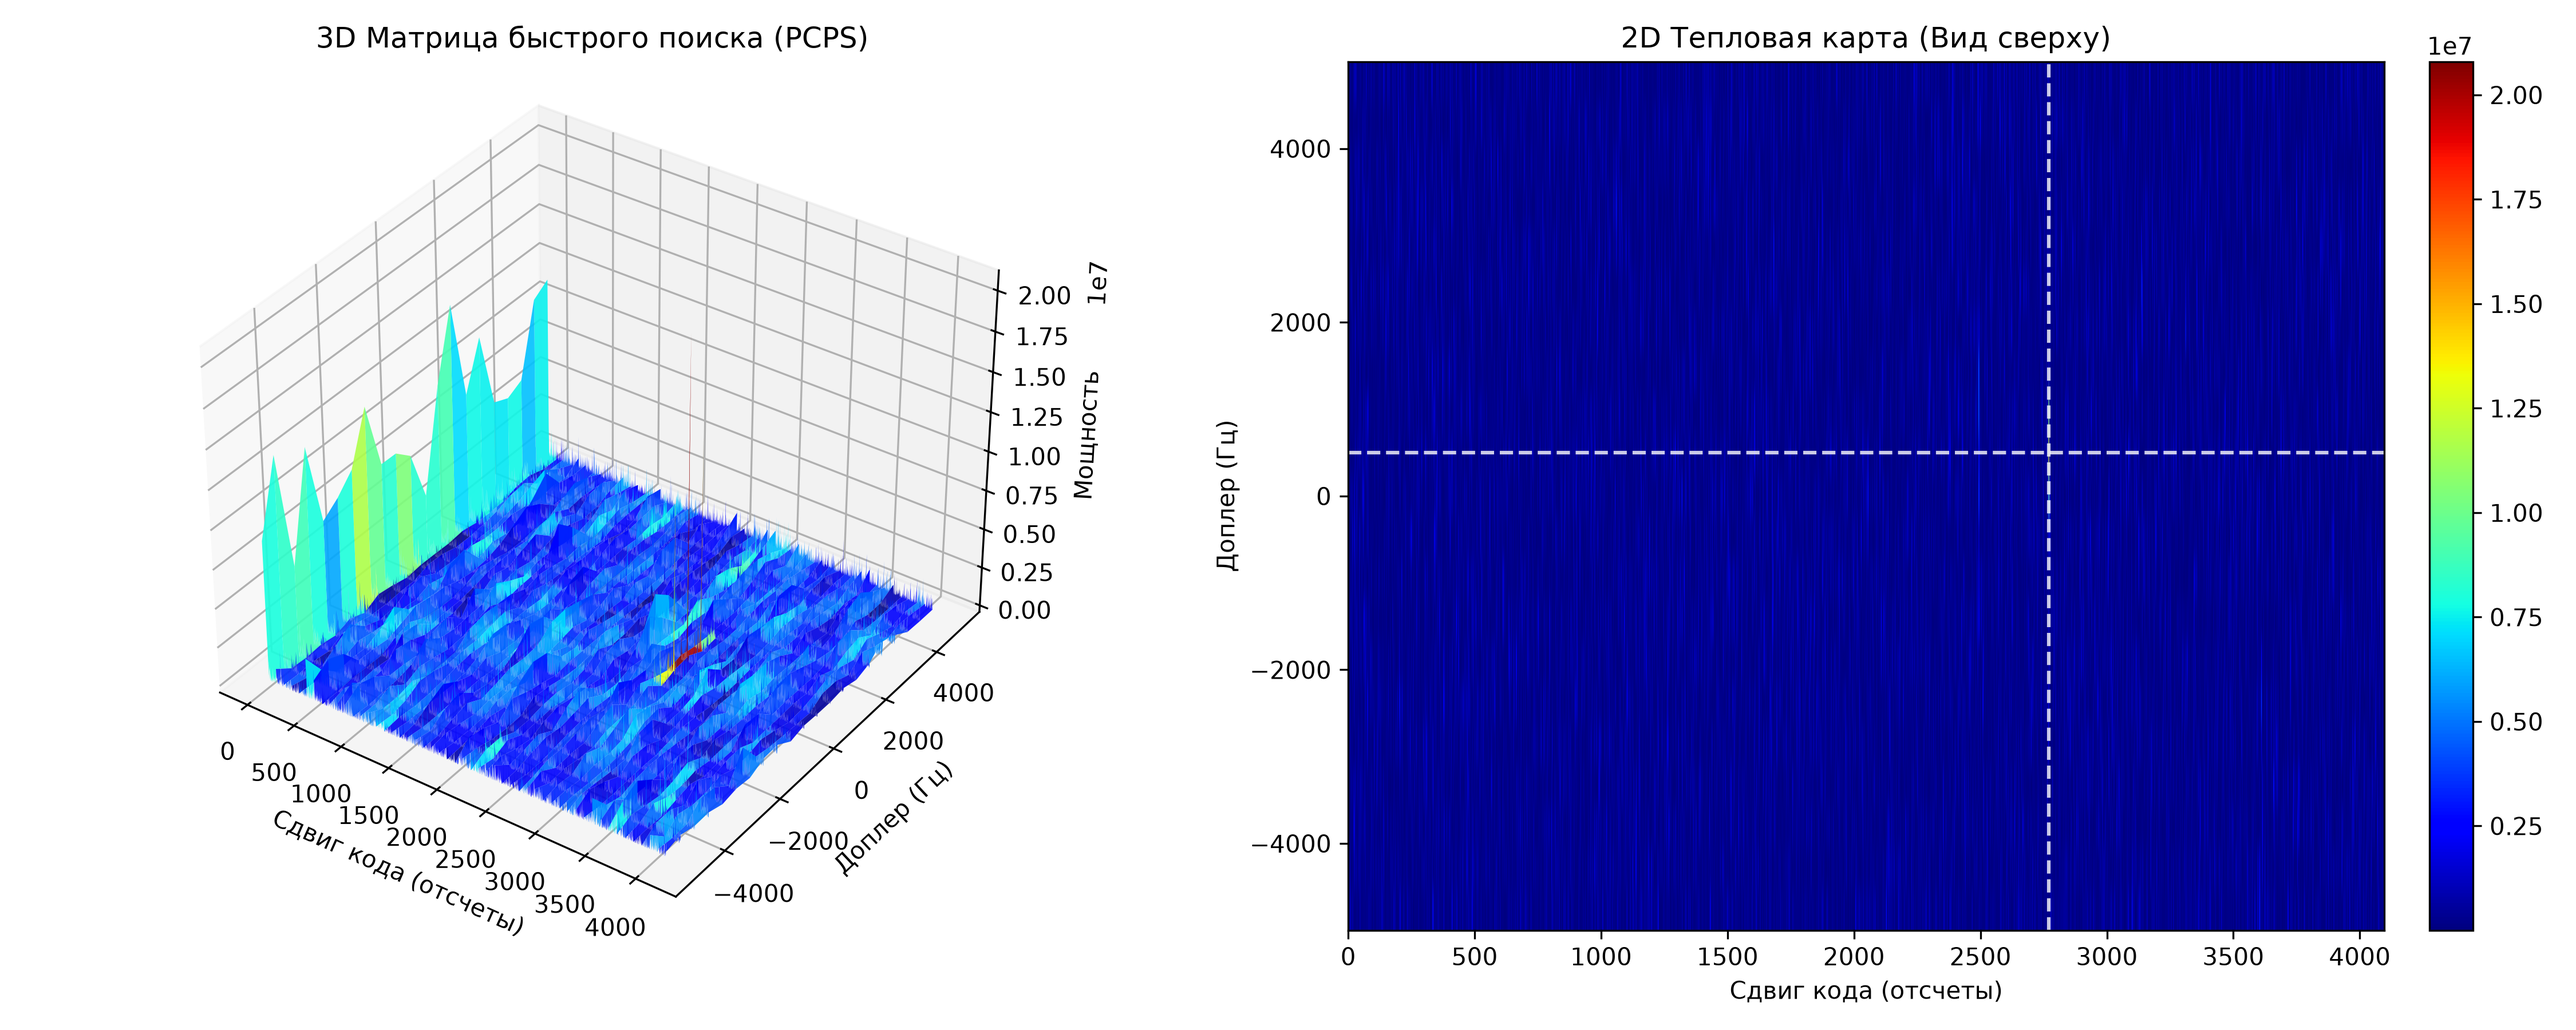
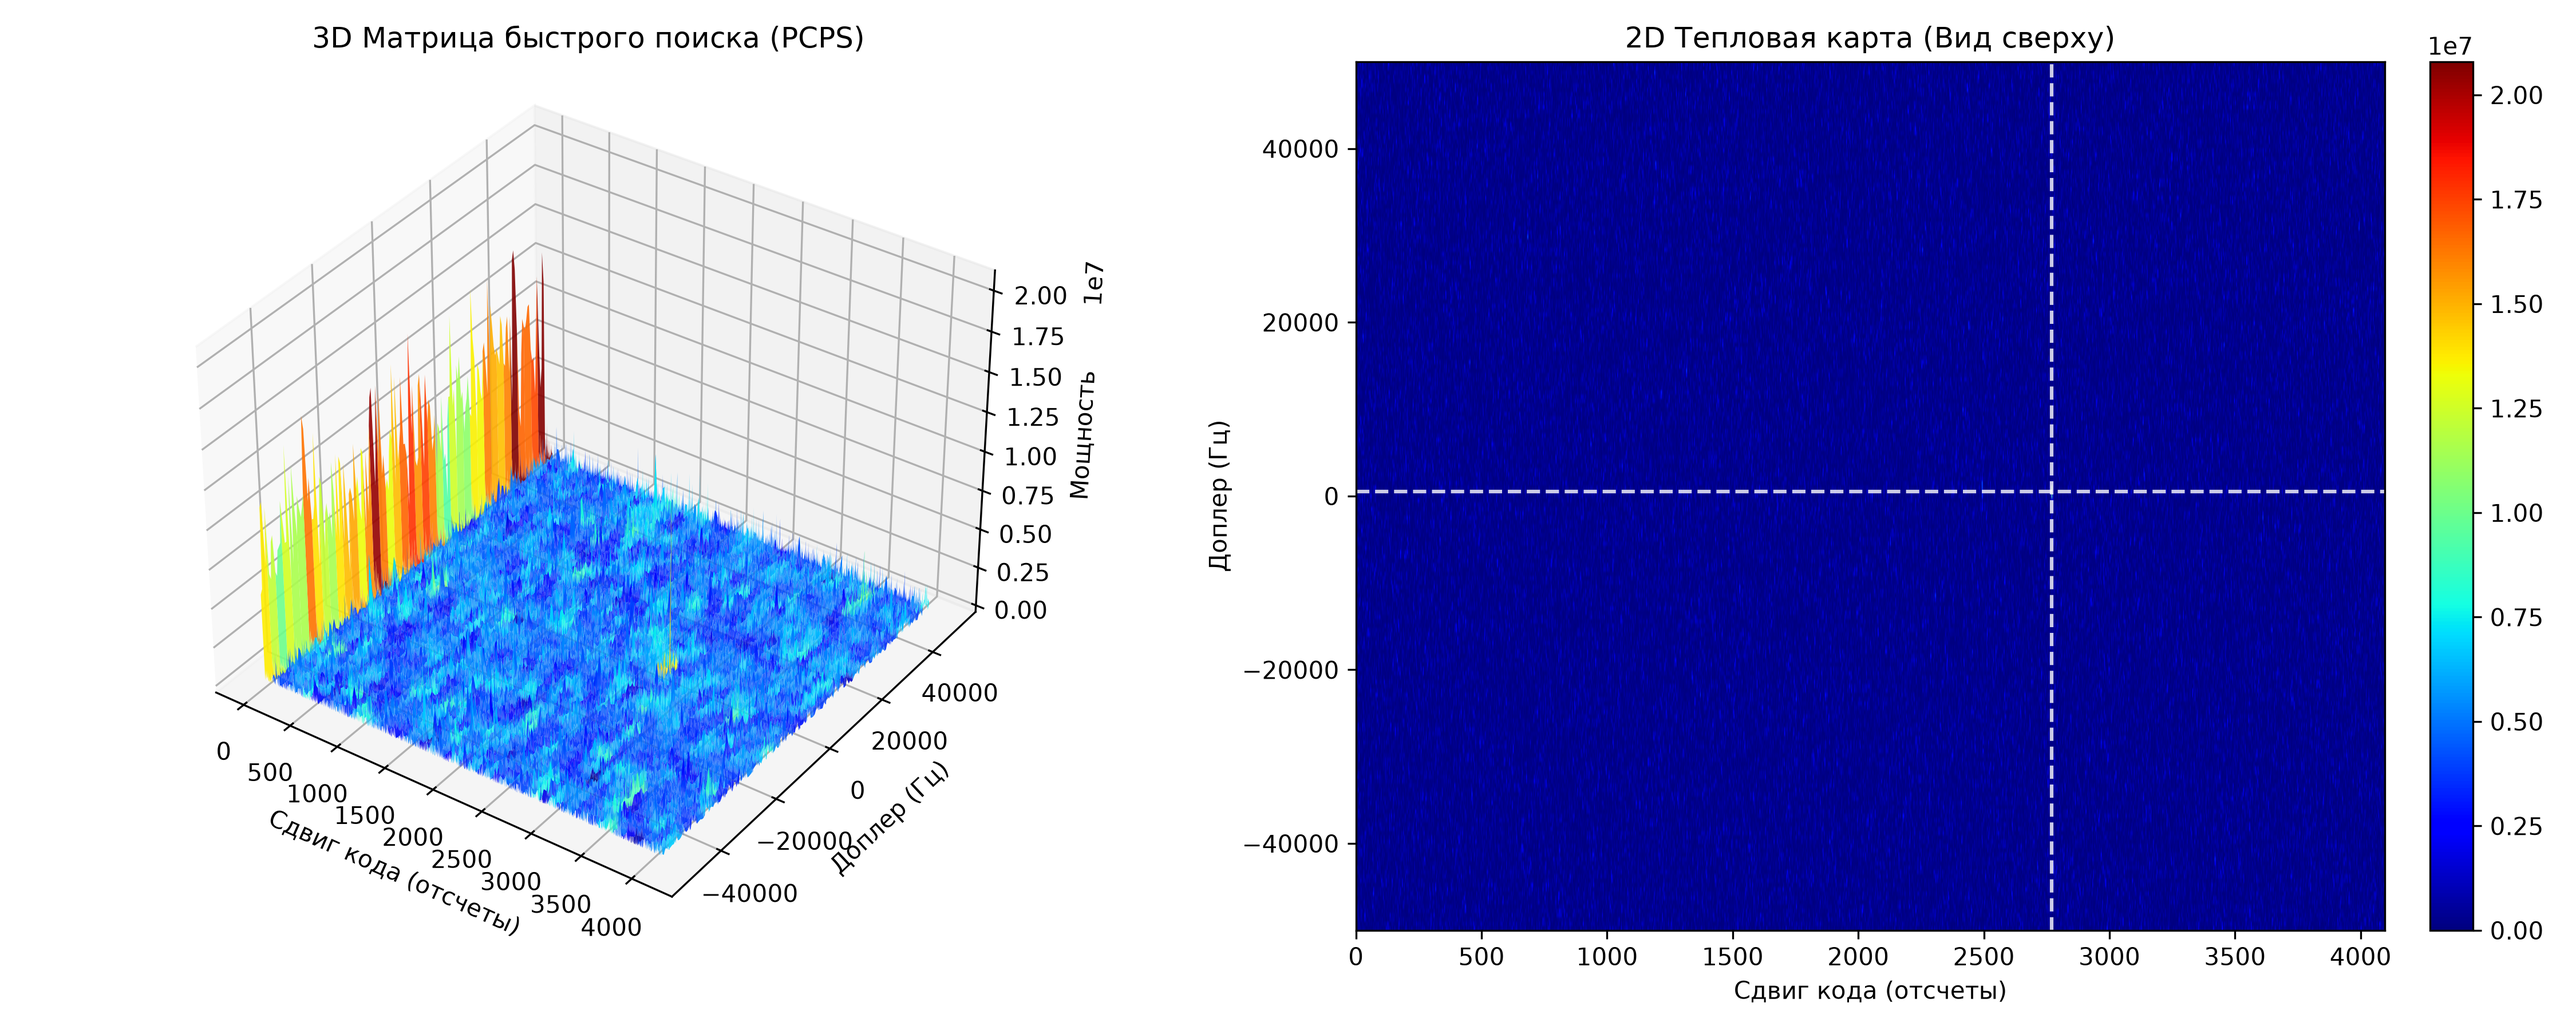
New arrange for doppler

Changed region(s): [[0.4667, 0.0311, 0.9333, 0.9956], [0.0933, 0.1244, 0.4356, 0.9022], [0.1244, 0.0311, 0.3422, 0.0622]]

diff --git a/sim/tb_coarse.cpp b/sim/tb_coarse.cpp
@@ -167,14 +167,14 @@ int main(int argc, char **argv) {
   fft_im.reserve(4096);
   mix_re.reserve(4096);
   mix_im.reserve(4096);
-  power_2d.reserve(21 * 4096);
+  power_2d.reserve(201 * 4096);
 
   std::vector<int> dopplers;
-  for (int d = -5000; d <= 5000; d += 500) {
+  for (int d = -50000; d <= 50000; d += 500) {
     dopplers.push_back(d);
   }
 
-  std::cout << "Starting 2D Doppler Search: -5 kHz to +5 kHz..." << std::endl;
+  std::cout << "Starting 2D Doppler Search: -50 kHz to +50 kHz..." << std::endl;
 
   bool global_signal_found = false;
   int best_doppler = 0;

diff --git a/sim/run_pipeline.py b/sim/run_pipeline.py
@@ -51,10 +51,10 @@ def main():
     power_1d = np.fromfile(pow_path, dtype=np.uint64)
     FRAME_SIZE = 4096
 
-    dopplers = np.arange(-5000, 5001, 500)
+    dopplers = np.arange(-50000, 50001, 500)
     num_doppler = len(dopplers)
 
-    # Формируем 2D матрицу (21 x 4096)
+    # Формируем 2D матрицу (201 x 4096)
     power_2d = power_1d.reshape((num_doppler, FRAME_SIZE)).astype(np.float64)
 
     # --- 2. Читаем спектры ---
